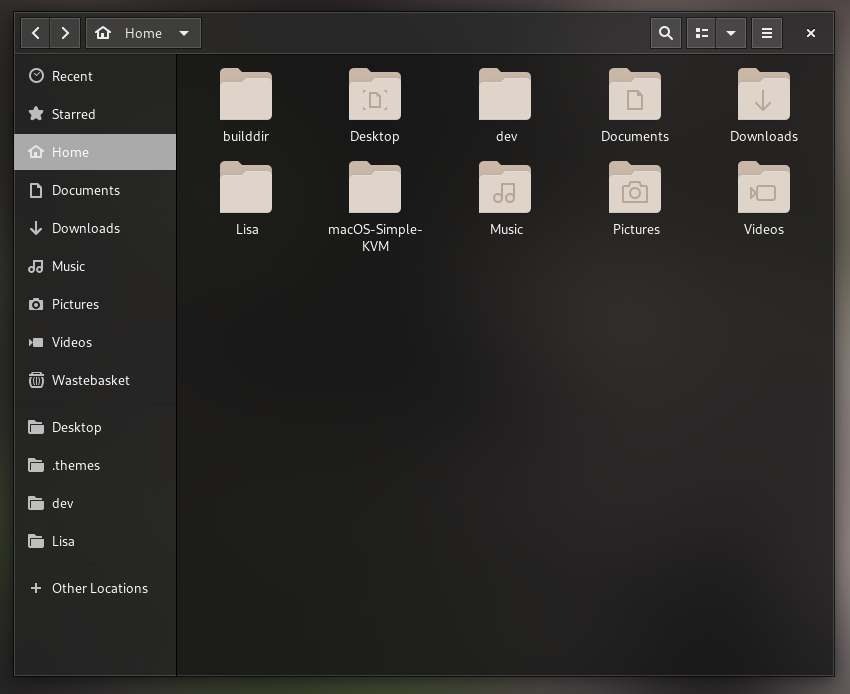
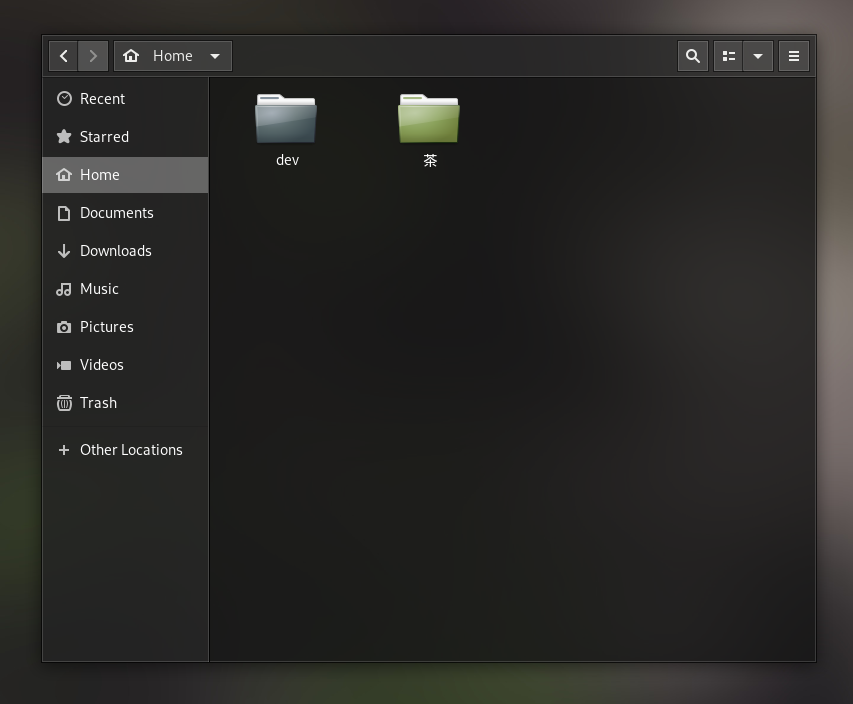
Screenshots updated

diff --git a/README.md b/README.md
@@ -6,6 +6,8 @@
 
 ![](.screenshots/02.png)
 
+![](.screenshots/03.png)
+
 ## Warning
 
 Status: Looking for bugs to fix.
